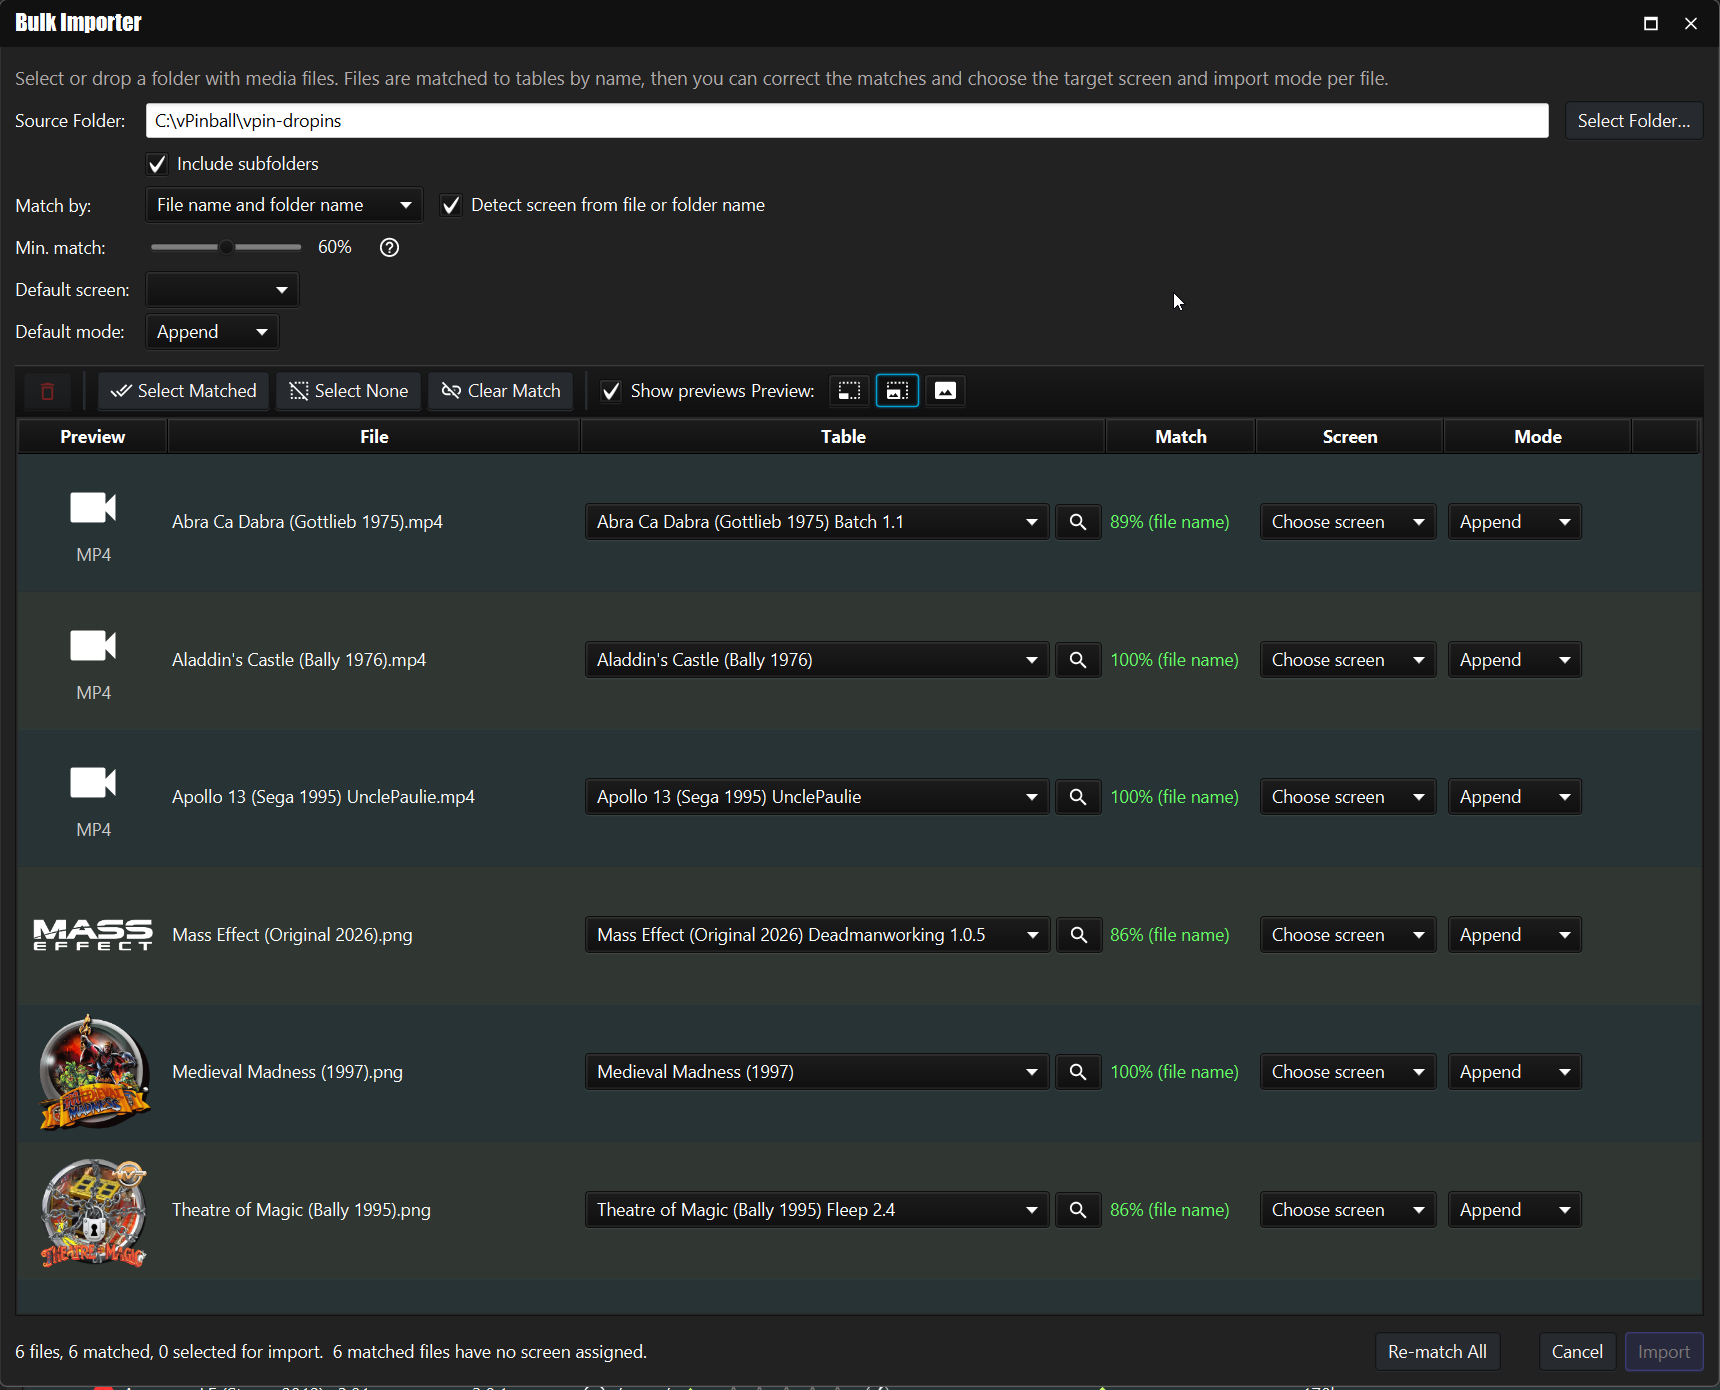
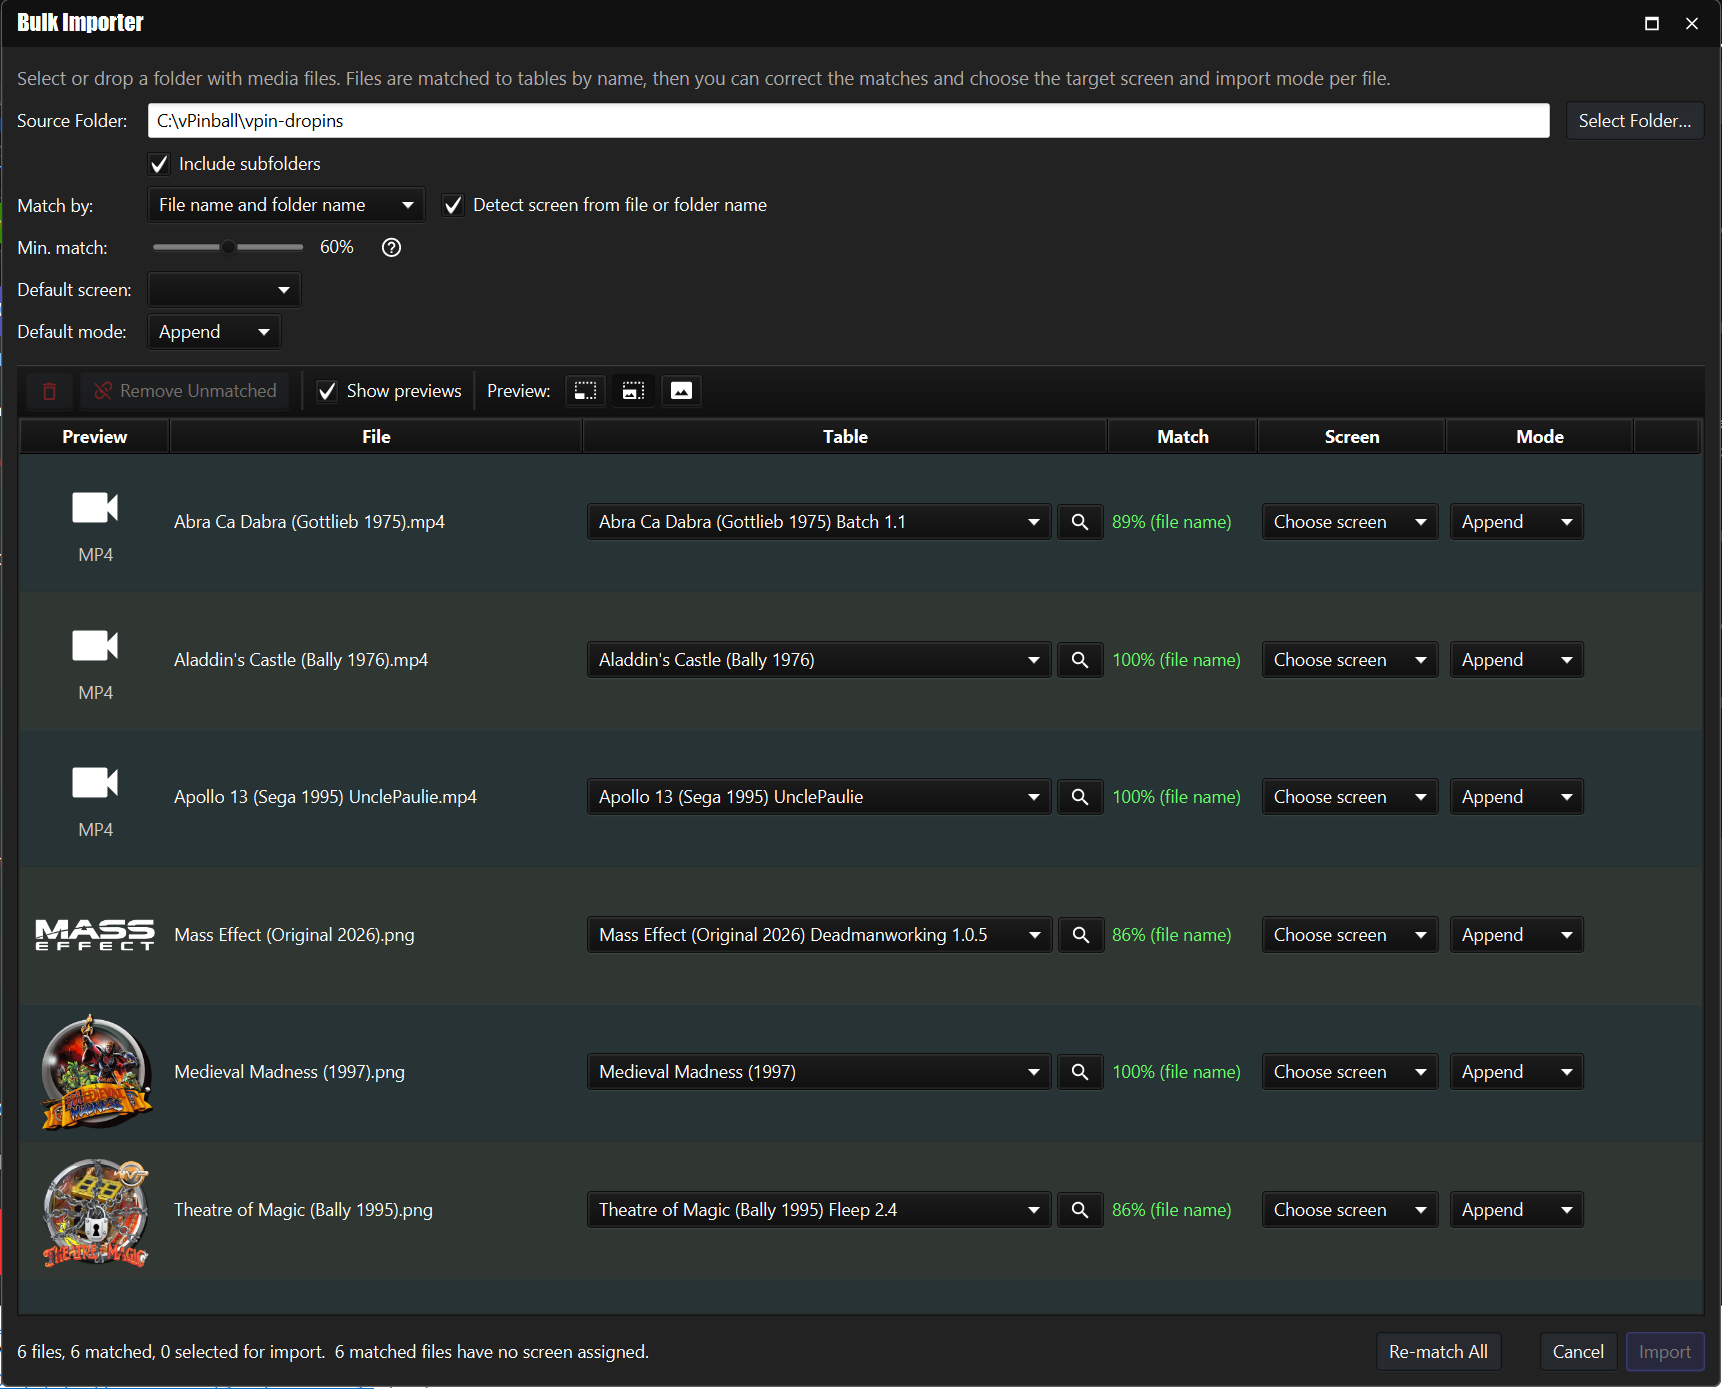
bulk importer improvements

diff --git a/vpin-studio-ui/src/main/java/de/mephisto/vpin/ui/tables/dialogs/BulkImporterController.java b/vpin-studio-ui/src/main/java/de/mephisto/vpin/ui/tables/dialogs/BulkImporterController.java
@@ -575,16 +575,6 @@ public class BulkImporterController implements Initializable, DialogController {
   }
 
   @FXML
-  private void onSelectMatched() {
-    selectImportable();
-  }
-
-  @FXML
-  private void onSelectNone() {
-    tableView.getSelectionModel().clearSelection();
-  }
-
-  @FXML
   private void onRemove() {
     List<BulkImportItem> selection = targets();
     int index = tableView.getSelectionModel().getSelectedIndex();
@@ -598,16 +588,6 @@ public class BulkImporterController implements Initializable, DialogController {
   @FXML
   private void onRemoveUnmatched() {
     items.removeIf(i -> i.gameProperty().get() == null);
-    updateSummary();
-  }
-
-  @FXML
-  private void onClearMatch() {
-    for (BulkImportItem item : targets()) {
-      item.gameProperty().set(null);
-      item.matchSourceProperty().set("filename");
-    }
-    tableView.refresh();
     updateSummary();
   }
 
